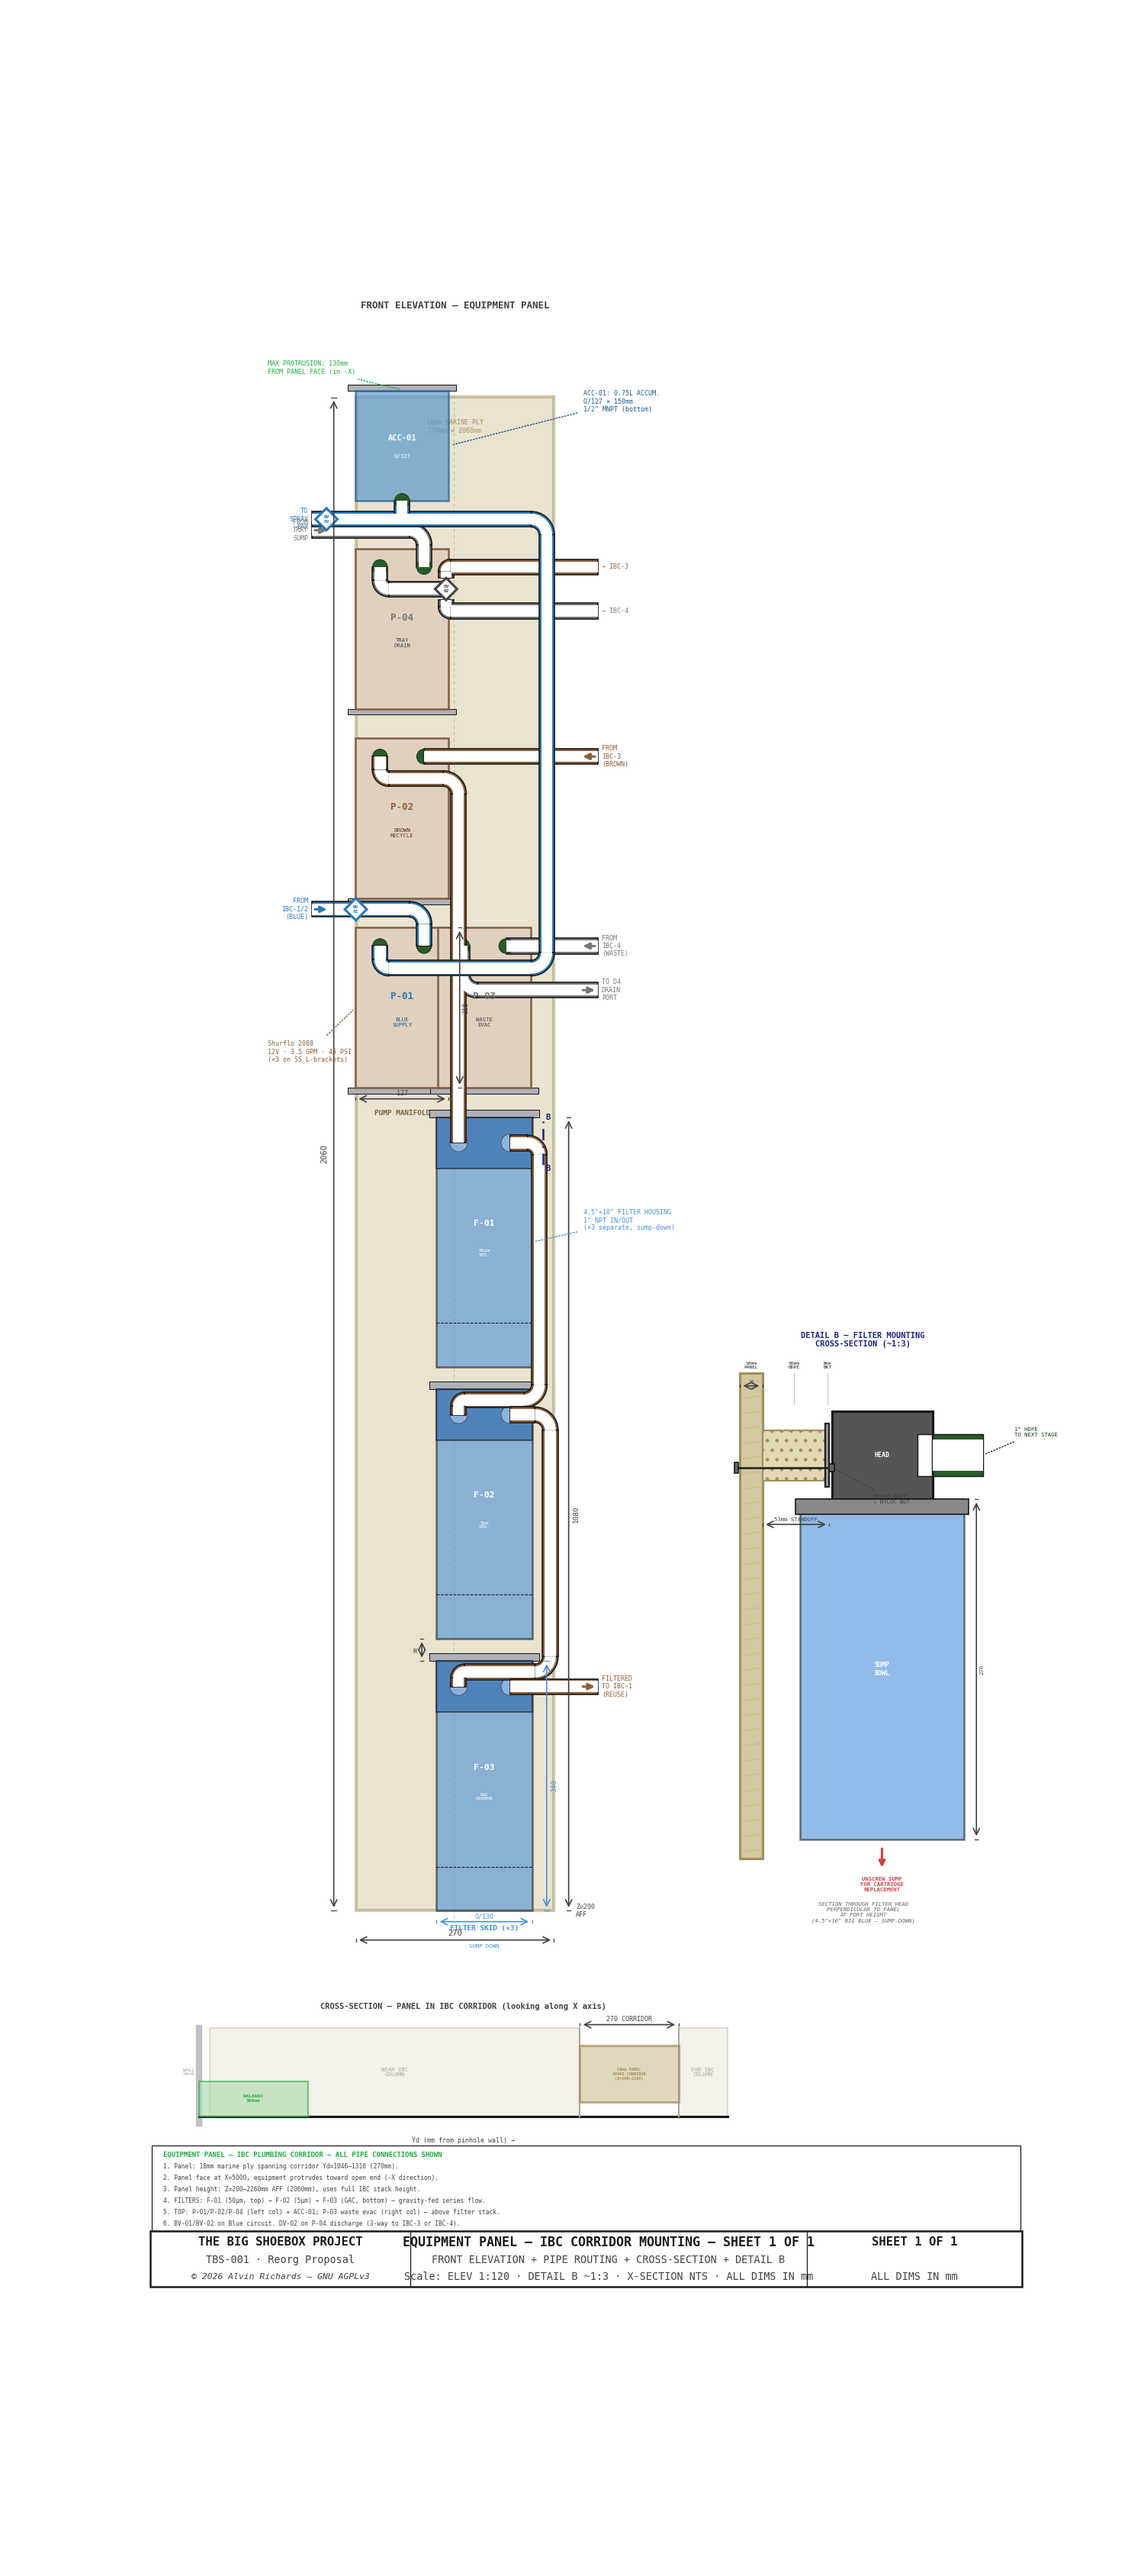
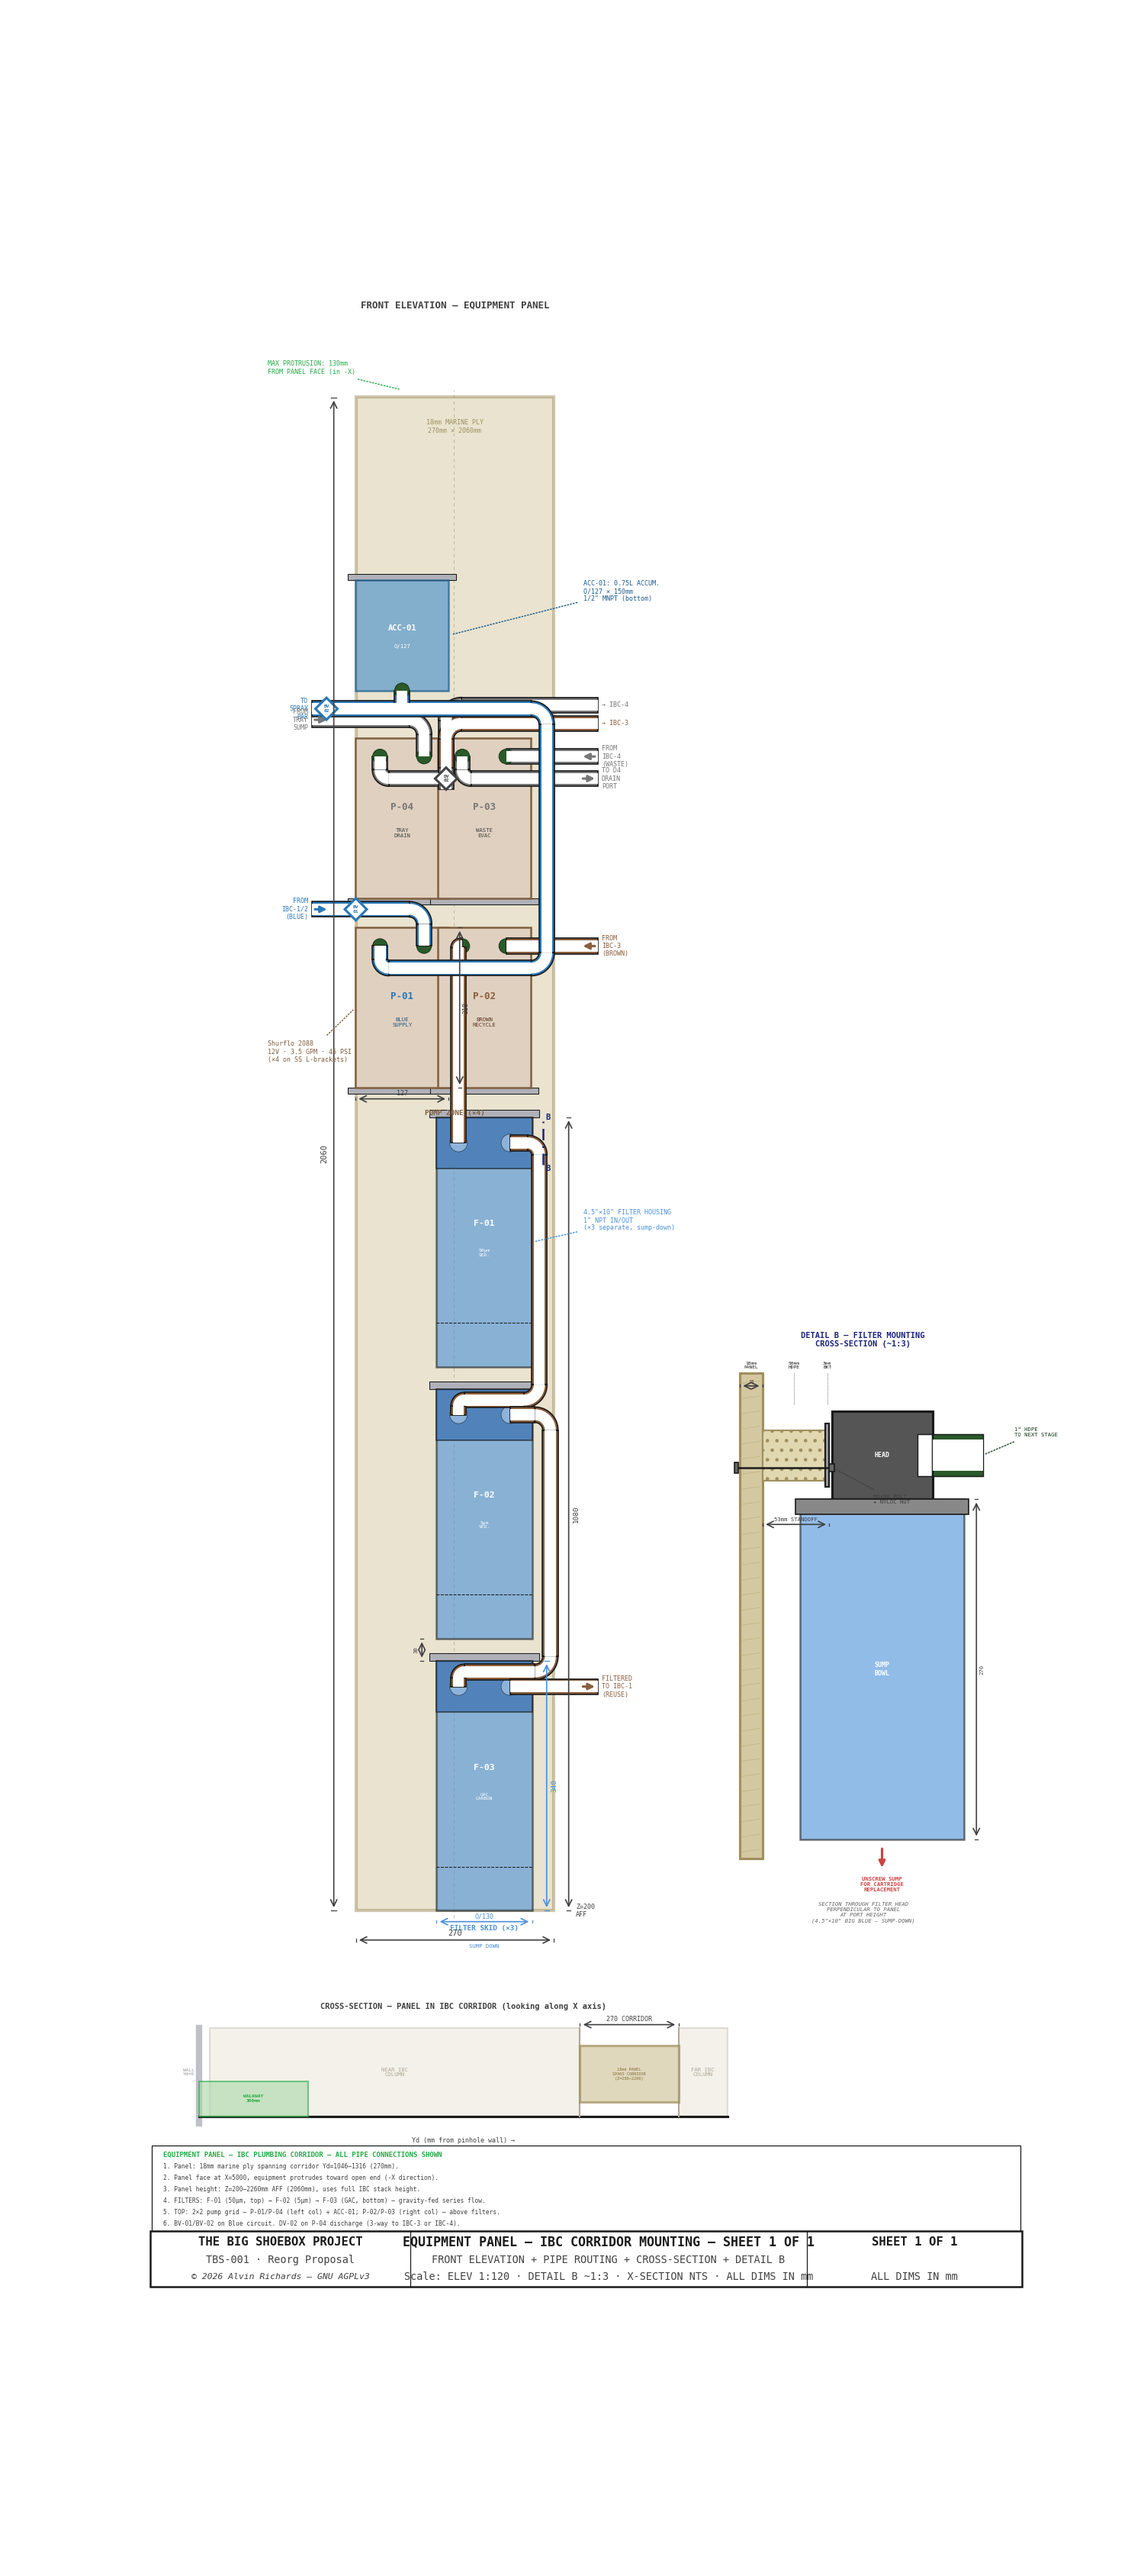
Rearrange pumps to 2x2 grid: P-01/P-04 left, P-02/P-03 right
Pairing follows pipe routing: left-fed pumps (P-01 Blue, P-04 tray
drain) in left column, right-fed pumps (P-02 Brown, P-03 waste) in
right column. P-02 discharge now drops straight to F-01 instead of
crossing the full panel. ACC-01 lowers to Z=1636 with only 2 pumps
below it. DV-02 outputs route above pump zone to avoid crossings.

Changed region(s): [[0.2453, 0.1244, 0.552, 0.4044]]

diff --git a/generate_panel_layout.py b/generate_panel_layout.py
@@ -70,22 +70,29 @@ F02_Z = FILT_H + FILT_GAP            # = 370 (middle)
 F03_Z = 0                             # = 0   (bottom — filtered exit)
 FILT_STACK_TOP = F01_Z + FILT_H       # = 1080
 
-# Left column: 3 pumps stacked vertically + ACC-01 above — TOP
-PUMP_COL = PUMP_W // 2               # = 63mm from left edge (127mm zone center)
+# 2×2 pump grid above filter stack:
+#   Left column  (Yd=0–127):  P-01 (Blue) + P-04 (Tray drain) + ACC-01
+#   Right column (Yd=110–240): P-02 (Brown) + P-03 (Waste evac)
+# Pairing follows pipe routing — left-fed pumps left, right-fed pumps right.
+
+PUMP_COL = PUMP_W // 2               # = 63mm — left column center
 PORT_IN_YD  = PUMP_COL + PORT_HALF   # right — inlet (suction)
 PORT_OUT_YD = PUMP_COL - PORT_HALF   # left — outlet (discharge)
+
+R_COL = FILT_COL                     # = 175mm — right column center
+R_PORT_IN  = R_COL + PORT_HALF       # 205 — right (inlet/suction)
+R_PORT_OUT = R_COL - PORT_HALF       # 145 — left (outlet/discharge)
+
 PUMP_ZONE_BOT = FILT_STACK_TOP + 40  # = 1120 (40mm gap above filter stack)
 
-P01_Z = PUMP_ZONE_BOT                 # = 1120
-P02_Z = P01_Z + PUMP_H + PUMP_GAP    # = 1378
-P04_Z = P02_Z + PUMP_H + PUMP_GAP    # = 1636
+P01_Z = PUMP_ZONE_BOT                 # = 1120 (left col, bottom)
+P04_Z = P01_Z + PUMP_H + PUMP_GAP    # = 1378 (left col, top)
+
+P02_Z = PUMP_ZONE_BOT                 # = 1120 (right col, bottom)
+P03_Z = P02_Z + PUMP_H + PUMP_GAP    # = 1378 (right col, top)
 
 ACC_YD = PUMP_COL
-ACC_Z  = P04_Z + PUMP_H + PUMP_GAP   # = 1894 (bottom of body / port)
-
-# P-03 (waste evacuation) — right column, above filter stack
-P03_COL = FILT_COL                    # 175 — right column center
-P03_Z   = PUMP_ZONE_BOT              # 1120 — matches pump zone baseline
+ACC_Z  = P04_Z + PUMP_H + PUMP_GAP   # = 1636 (above P-04)
 
 # ── Colors ────────────────────────────────────────────────────────────────
 C_FRAME      = "#1A1A1A"
@@ -187,49 +194,40 @@ ax.plot([sx(zone_yd), sx(zone_yd)], [sz(-10), sz(PANEL_H + 10)],
 
 
 # ═══════════════════════════════════════════════════════════════════════════
-#  2. PUMPS — 3× stacked vertically (left column, Yd=0–127)
+#  2. PUMPS — 2×2 grid above filter stack
+#     Left column:  P-01 (Blue) + P-04 (Tray drain)
+#     Right column: P-02 (Brown) + P-03 (Waste evac)
 # ═══════════════════════════════════════════════════════════════════════════
-pump_specs = [
-    ("P-01", "BLUE\nSUPPLY",    P01_Z, C_BLUE,     C_BLUE_EC),
-    ("P-02", "BROWN\nRECYCLE",  P02_Z, C_BROWN,    C_BROWN_EC),
-    ("P-04", "TRAY\nDRAIN",     P04_Z, C_BLACK_SYS, C_BLACK_EC),
-]
 
-for pname, pdesc, pz, pfc, pec in pump_specs:
-    # Mounting bracket
-    rect(PUMP_COL - PUMP_W / 2 - 10, pz - 8,
+
+def _draw_pump(col_yd, port_in_yd, port_out_yd, pz, pname, pdesc, pfc, pec):
+    rect(col_yd - PUMP_W / 2 - 10, pz - 8,
          PUMP_W + 20, 8,
          C_FRAME_FILL, C_FRAME, lw=0.5, zorder=4)
-    # Pump body
-    rect(PUMP_COL - PUMP_W / 2, pz, PUMP_W, PUMP_H,
+    rect(col_yd - PUMP_W / 2, pz, PUMP_W, PUMP_H,
          C_PUMP_BODY, C_PUMP_EC, lw=1.2, zorder=6)
-    # Port indicators (side by side at head — outlet LEFT, inlet RIGHT)
-    for port_yd in [PORT_OUT_YD, PORT_IN_YD]:
+    for port_yd in [port_out_yd, port_in_yd]:
         circ(port_yd, pz + PUMP_H - 25, 10,
              C_PIPE_FILL, C_PIPE_EC, lw=0.5, zorder=7)
-    # Label
-    ax.text(sx(PUMP_COL), sz(pz + PUMP_H / 2 + 15),
+    ax.text(sx(col_yd), sz(pz + PUMP_H / 2 + 15),
             pname, ha="center", va="center",
             fontsize=6, color=pfc, fontweight="bold", zorder=8, **FONT)
-    ax.text(sx(PUMP_COL), sz(pz + PUMP_H / 2 - 20),
+    ax.text(sx(col_yd), sz(pz + PUMP_H / 2 - 20),
             pdesc, ha="center", va="center",
             fontsize=3.5, color=pec, zorder=8, **FONT)
 
-# P-03 — right column, above filter stack
-rect(P03_COL - PUMP_W / 2, P03_Z, PUMP_W, PUMP_H,
-     C_PUMP_BODY, C_PUMP_EC, lw=1.2, zorder=6)
-rect(P03_COL - PUMP_W / 2 - 10, P03_Z - 8,
-     PUMP_W + 20, 8,
-     C_FRAME_FILL, C_FRAME, lw=0.5, zorder=4)
-for _p03_port_yd in [P03_COL - PORT_HALF, P03_COL + PORT_HALF]:
-    circ(_p03_port_yd, P03_Z + PUMP_H - 25, 10,
-         C_PIPE_FILL, C_PIPE_EC, lw=0.5, zorder=7)
-ax.text(sx(P03_COL), sz(P03_Z + PUMP_H / 2 + 15),
-        "P-03", ha="center", va="center",
-        fontsize=6, color=C_BLACK_SYS, fontweight="bold", zorder=8, **FONT)
-ax.text(sx(P03_COL), sz(P03_Z + PUMP_H / 2 - 20),
-        "WASTE\nEVAC", ha="center", va="center",
-        fontsize=3.5, color=C_BLACK_EC, zorder=8, **FONT)
+
+# Left column
+_draw_pump(PUMP_COL, PORT_IN_YD, PORT_OUT_YD,
+           P01_Z, "P-01", "BLUE\nSUPPLY", C_BLUE, C_BLUE_EC)
+_draw_pump(PUMP_COL, PORT_IN_YD, PORT_OUT_YD,
+           P04_Z, "P-04", "TRAY\nDRAIN", C_BLACK_SYS, C_BLACK_EC)
+
+# Right column
+_draw_pump(R_COL, R_PORT_IN, R_PORT_OUT,
+           P02_Z, "P-02", "BROWN\nRECYCLE", C_BROWN, C_BROWN_EC)
+_draw_pump(R_COL, R_PORT_IN, R_PORT_OUT,
+           P03_Z, "P-03", "WASTE\nEVAC", C_BLACK_SYS, C_BLACK_EC)
 
 
 # ═══════════════════════════════════════════════════════════════════════════
@@ -307,9 +305,9 @@ ax.text(sx(FILT_COL), sz(F03_Z - 45),
         "SUMP DOWN", ha="center", va="top",
         fontsize=3.5, color=C_FILTER, zorder=10, **FONT)
 
-# Pump zone (top)
-ax.text(sx(PUMP_COL), sz(P01_Z - 30),
-        "PUMP MANIFOLD", ha="center", va="top",
+# Pump zone (top — spans both columns)
+ax.text(sx(PANEL_W / 2), sz(P01_Z - 30),
+        "PUMP ZONE (×4)", ha="center", va="top",
         fontsize=4.5, color=C_PUMP_EC, fontweight="bold", zorder=10, **FONT)
 
 
@@ -338,12 +336,10 @@ Z_DISCH = 9    # discharge riser draws OVER suction pipes
 PORT_DROP = 30               # discharge route drops below port Z
 SUCT_RISE = 50               # suction route rises above port Z
 
-P01_PORT_Z = P01_Z + PUMP_H - 25
-P02_PORT_Z = P02_Z + PUMP_H - 25
-P04_PORT_Z = P04_Z + PUMP_H - 25
-P03_PORT_Z = P03_Z + PUMP_H - 25
-P03_PORT_IN  = P03_COL + PORT_HALF   # 205 — right (inlet/suction)
-P03_PORT_OUT = P03_COL - PORT_HALF   # 145 — left (outlet/discharge)
+P01_PORT_Z = P01_Z + PUMP_H - 25      # 1313 (left col, bottom)
+P04_PORT_Z = P04_Z + PUMP_H - 25      # 1571 (left col, top)
+P02_PORT_Z = P02_Z + PUMP_H - 25      # 1313 (right col, bottom)
+P03_PORT_Z = P03_Z + PUMP_H - 25      # 1571 (right col, top)
 
 # ── Filter head Z positions ──
 F01_HEAD_Z = F01_Z + FILT_H - FILT_HEAD / 2   # top filter head
@@ -527,12 +523,12 @@ ax.text(sx(EXIT_L - 5), sz(ACC_Z),
 
 
 # ════════════════════════════════════════════════════════════════
-#  BROWN SYSTEM (C_BROWN)
+#  BROWN SYSTEM (C_BROWN) — P-02 in right column
 # ════════════════════════════════════════════════════════════════
 
-# Brown suction: IBC-3 (far column, RIGHT) → P-02 inlet (RIGHT port)
+# Brown suction: IBC-3 (far column, RIGHT) → P-02 inlet (right port)
 draw_pipe_path(ax,
-    [EXIT_R, PORT_IN_YD],
+    [EXIT_R, R_PORT_IN],
     [P02_PORT_Z, P02_PORT_Z],
     PIPE_OD, PIPE_WALL, fc=C_BROWN, zorder=Z_BROWN)
 ax.annotate("", xy=(sx(EXIT_R - _AW), sz(P02_PORT_Z)),
@@ -542,10 +538,11 @@ ax.text(sx(EXIT_R + 5), sz(P02_PORT_Z),
         "FROM\nIBC-3\n(BROWN)", ha="left", va="center",
         fontsize=4, color=C_BROWN, zorder=10, **FONT)
 
-# Brown discharge: P-02 outlet (LEFT port) → drop → right to F_IN_YD → down to F-01
+# Brown discharge: P-02 outlet (left port) → straight down to F-01 IN
+# R_PORT_OUT=145, F_IN_YD=140 — nearly vertical, natural drop
 draw_pipe_path(ax,
-    [PORT_OUT_YD, PORT_OUT_YD, F_IN_YD, F_IN_YD],
-    [P02_PORT_Z, P02_PORT_Z - PORT_DROP, P02_PORT_Z - PORT_DROP, F01_HEAD_Z],
+    [R_PORT_OUT, F_IN_YD, F_IN_YD],
+    [P02_PORT_Z, P02_PORT_Z, F01_HEAD_Z],
     PIPE_OD, PIPE_WALL, fc=C_BROWN, zorder=Z_BROWN)
 
 # Filter jumpers — gravity-fed downward: F-01 → F-02 → F-03
@@ -607,8 +604,11 @@ draw_pipe_path(ax,
 # DV-02 (3-way diverter — diamond symbol)
 draw_ball_valve(DV02_YD, DV02_Z, "DV\n02", C_BLACK_EC)
 
+# DV-02 outputs route UP past right-column pumps, then right to IBCs
+_DV_CLEAR_Z = max(P03_Z, P04_Z) + PUMP_H + 20   # above all pump tops
+
 # DV-02 Brown output → IBC-3 (RIGHT)
-DV_OUT_Z_BROWN = DV02_Z + BV_R + 15
+DV_OUT_Z_BROWN = _DV_CLEAR_Z
 draw_pipe_path(ax,
     [DV02_YD, DV02_YD, EXIT_R],
     [DV02_Z + BV_R, DV_OUT_Z_BROWN, DV_OUT_Z_BROWN],
@@ -618,7 +618,7 @@ ax.text(sx(EXIT_R + 5), sz(DV_OUT_Z_BROWN),
         fontsize=4, color=C_BROWN, zorder=10, **FONT)
 
 # DV-02 Black output → IBC-4 (RIGHT)
-DV_OUT_Z_BLACK = DV02_Z - BV_R - 15
+DV_OUT_Z_BLACK = _DV_CLEAR_Z + 25
 draw_pipe_path(ax,
     [DV02_YD, DV02_YD, EXIT_R],
     [DV02_Z - BV_R, DV_OUT_Z_BLACK, DV_OUT_Z_BLACK],
@@ -634,7 +634,7 @@ ax.text(sx(EXIT_R + 5), sz(DV_OUT_Z_BLACK),
 
 # P-03 suction: IBC-4 (RIGHT) → P-03 inlet (right port)
 draw_pipe_path(ax,
-    [EXIT_R, P03_PORT_IN],
+    [EXIT_R, R_PORT_IN],
     [P03_PORT_Z, P03_PORT_Z],
     PIPE_OD, PIPE_WALL, fc=C_BLACK_SYS, zorder=Z_BLACK)
 ax.annotate("", xy=(sx(EXIT_R - _AW), sz(P03_PORT_Z)),
@@ -644,10 +644,10 @@ ax.text(sx(EXIT_R + 5), sz(P03_PORT_Z),
         "FROM\nIBC-4\n(WASTE)", ha="left", va="center",
         fontsize=4, color=C_BLACK_SYS, zorder=10, **FONT)
 
-# P-03 discharge: outlet (left port) → drop 60mm → right to D4 bulkhead
-_P03_DISCH_Z = P03_PORT_Z - 60
+# P-03 discharge: outlet (left port) → drop → right to D4 bulkhead
+_P03_DISCH_Z = P03_PORT_Z - PORT_DROP
 draw_pipe_path(ax,
-    [P03_PORT_OUT, P03_PORT_OUT, EXIT_R],
+    [R_PORT_OUT, R_PORT_OUT, EXIT_R],
     [P03_PORT_Z, _P03_DISCH_Z, _P03_DISCH_Z],
     PIPE_OD, PIPE_WALL, fc=C_BLACK_SYS, zorder=Z_BLACK)
 ax.annotate("", xy=(sx(EXIT_R), sz(_P03_DISCH_Z)),
@@ -719,7 +719,7 @@ ax.text(sx(PANEL_W + 30), sz(0),
 leader(ax,
        sx(PUMP_COL - PUMP_W / 2), sz(P01_Z + PUMP_H / 2),
        sx(X_SHOW_L + 10), sz(P01_Z + PUMP_H / 2 - 60),
-       "Shurflo 2088\n12V · 3.5 GPM · 45 PSI\n(×3 on SS L-brackets)",
+       "Shurflo 2088\n12V · 3.5 GPM · 45 PSI\n(×4 on SS L-brackets)",
        fs=4, color=C_PUMP_EC, font=FONT)
 
 # ACC-01
@@ -853,7 +853,7 @@ notes = [
     f"2. Panel face at X={PANEL_WALL_X}, equipment protrudes toward open end (-X direction).",
     f"3. Panel height: Z={PANEL_Z_AFF}–{PANEL_Z_AFF + PANEL_H}mm AFF ({PANEL_H}mm), uses full IBC stack height.",
     "4. FILTERS: F-01 (50µm, top) → F-02 (5µm) → F-03 (GAC, bottom) — gravity-fed series flow.",
-    "5. TOP: P-01/P-02/P-04 (left col) + ACC-01; P-03 waste evac (right col) — above filter stack.",
+    "5. TOP: 2×2 pump grid — P-01/P-04 (left col) + ACC-01; P-02/P-03 (right col) — above filters.",
     "6. BV-01/BV-02 on Blue circuit. DV-02 on P-04 discharge (3-way to IBC-3 or IBC-4).",
     f"7. Max protrusion: {max_depth}mm. Near IBCs LEFT, far IBCs RIGHT in this view.",
     "8. Flow: P-02 ↑ F-01 (top) ↓ F-02 ↓ F-03 (bottom) → IBC-1. Gravity assists after F-01.",
